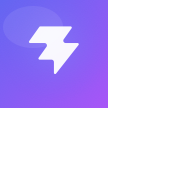
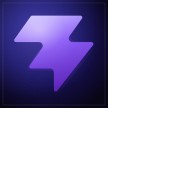
fix: VS divider animation reliability + improved social assets
- Convert ProblemSolutionSection VS divider from scroll-linked useScroll
  to whileInView (staggered) — eliminates stuck animation when Lenis
  smooth scroll position diverges from real browser scroll
- Replace apple-touch-icon.png with premium dark icon (deep indigo bg,
  violet bolt with glow halo and shine overlay)
- Add og-image.jpg (1200×630) — was referenced in index.html but missing;
  shows 'Proposals that close.' headline + live Deal Room UI mockup

diff --git a/src/pages/LandingPage.tsx b/src/pages/LandingPage.tsx
@@ -756,19 +756,9 @@ function HowItWorksSection({ c, isHe }: { c: typeof copy['he']; isHe: boolean })
 // ─── Problem vs Solution ───────────────────────────────────────────────────────
 
 function ProblemSolutionSection({ c, isHe }: { c: typeof copy['he']; isHe: boolean }) {
-  const sectionRef = useRef<HTMLElement>(null)
-  const { scrollYProgress } = useScroll({
-    target: sectionRef,
-    offset: ['start 0.9', 'center center'],
-  })
-  // Top line draws first, then VS badge, then bottom line
-  const topLine    = useSpring(useTransform(scrollYProgress, [0.05, 0.45], [0, 1]), { stiffness: 60, damping: 16 })
-  const vsScale    = useTransform(scrollYProgress, [0.40, 0.65], [0, 1])
-  const vsRotate   = useTransform(scrollYProgress, [0.40, 0.65], [-180, 0])
-  const bottomLine = useSpring(useTransform(scrollYProgress, [0.60, 0.90], [0, 1]), { stiffness: 60, damping: 16 })
 
   return (
-    <section ref={sectionRef} className="relative py-16 sm:py-24 px-6">
+    <section className="relative py-16 sm:py-24 px-6">
       <div className="max-w-5xl mx-auto">
         <motion.div
           className="text-center mb-16"
@@ -821,25 +811,30 @@ function ProblemSolutionSection({ c, isHe }: { c: typeof copy['he']; isHe: boole
             </ul>
           </motion.div>
 
-          {/* VS Divider — scroll-linked drawing */}
+          {/* VS Divider — whileInView staggered reveal */}
           <div className="flex lg:flex-col items-center justify-center py-2 lg:py-0 lg:px-5">
-            {/* Top line — draws downward as section enters viewport */}
+            {/* Top line */}
             <motion.div
               className="flex-1 h-px lg:h-auto lg:w-px"
+              initial={{ scaleY: 0, opacity: 0 }}
+              whileInView={{ scaleY: 1, opacity: 1 }}
+              viewport={{ once: true, margin: '-60px' }}
+              transition={{ duration: 0.65, ease: 'easeOut' as const }}
               style={{
                 background: 'linear-gradient(to right, transparent, rgba(99,102,241,0.2), transparent)',
-                scaleY: topLine,
                 transformOrigin: 'top center',
               }}
             />
-            {/* VS badge — springs in after top line completes */}
+            {/* VS badge */}
             <div className="relative flex-none mx-4 lg:mx-0 lg:my-5">
               <div className="absolute inset-0 rounded-full" style={{ background: 'rgba(99,102,241,0.25)', animation: 'lp-ping-ring 2.8s ease-out infinite' }} />
               <div className="absolute -inset-3 rounded-full" style={{ background: 'radial-gradient(circle, rgba(99,102,241,0.35) 0%, transparent 70%)', filter: 'blur(10px)' }} />
               <motion.div
+                initial={{ scale: 0, rotate: -180 }}
+                whileInView={{ scale: 1, rotate: 0 }}
+                viewport={{ once: true, margin: '-60px' }}
+                transition={{ type: 'spring' as const, stiffness: 200, damping: 22, delay: 0.35 }}
                 style={{
-                  scale: vsScale,
-                  rotate: vsRotate,
                   width: 54, height: 54, borderRadius: '50%',
                   background: 'linear-gradient(135deg, #4f46e5, #7c3aed, #a855f7)',
                   boxShadow: '0 0 0 1px rgba(255,255,255,0.15), 0 0 32px rgba(99,102,241,0.7), inset 0 1px 0 rgba(255,255,255,0.2)',
@@ -852,12 +847,15 @@ function ProblemSolutionSection({ c, isHe }: { c: typeof copy['he']; isHe: boole
                 VS
               </motion.div>
             </div>
-            {/* Bottom line — draws downward after badge */}
+            {/* Bottom line */}
             <motion.div
               className="flex-1 h-px lg:h-auto lg:w-px"
+              initial={{ scaleY: 0, opacity: 0 }}
+              whileInView={{ scaleY: 1, opacity: 1 }}
+              viewport={{ once: true, margin: '-60px' }}
+              transition={{ duration: 0.65, ease: 'easeOut' as const, delay: 0.7 }}
               style={{
                 background: 'linear-gradient(to right, transparent, rgba(99,102,241,0.2), transparent)',
-                scaleY: bottomLine,
                 transformOrigin: 'top center',
               }}
             />
